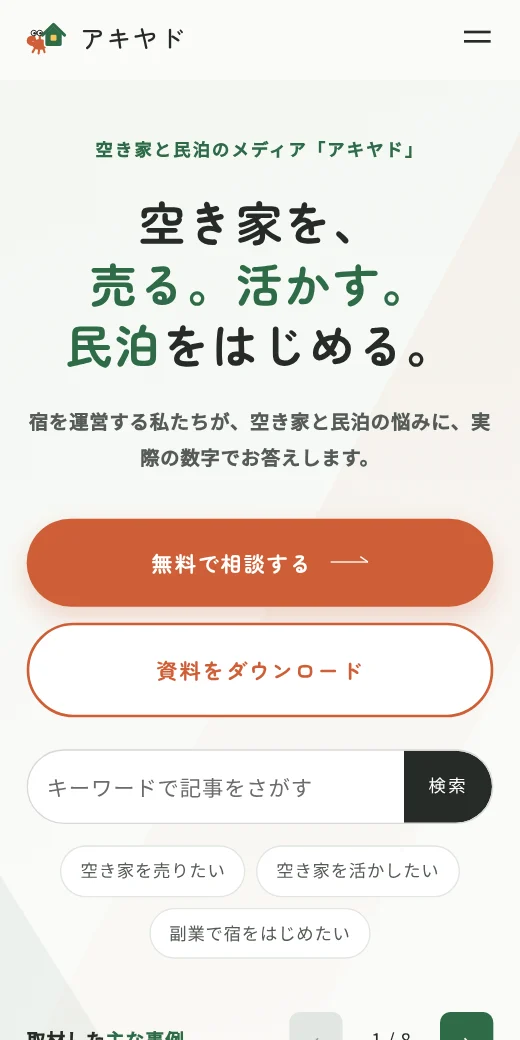
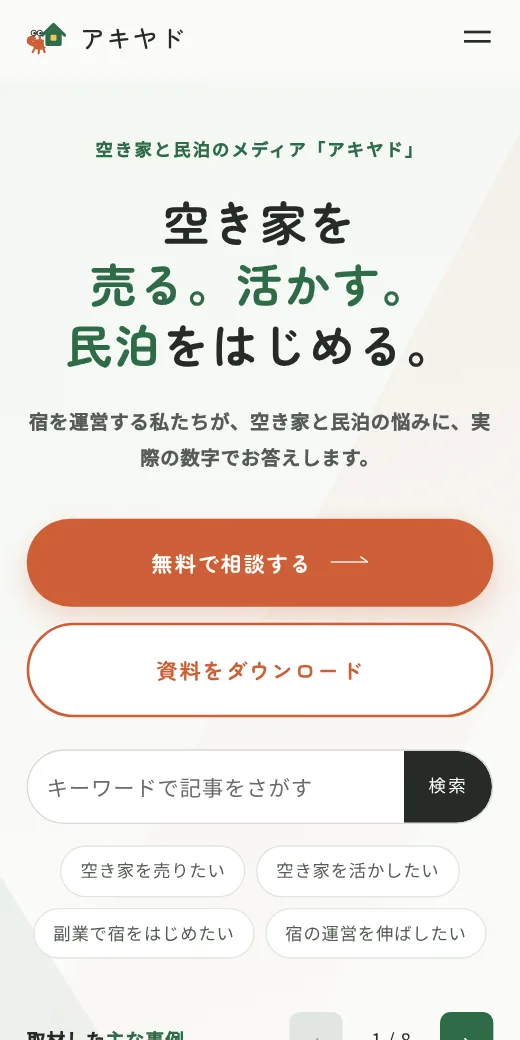
メディアトップの大見出しの読点を削除し、紹介画像を撮り直す
- media.html の大見出し「空き家を、」の「、」を消した（前回の修正で漏れていた）
- 会社トップのメディア紹介の見本画像（PC・スマホ）を、今の見た目（読点なし・新しいナビ）で撮り直した
- 見本画像は30日キャッシュされるため、URL に版番号（?v=）を付け、差し替えがすぐ反映されるようにした

Claude-Session: https://claude.ai/code/session_01GUoo6F3p45XxKZwNuvxHzQ

Changed region(s): [[0.2769, 0.1846, 0.6769, 0.2462], [0.0923, 0.8923, 0.8, 0.9231], [0.8308, 0.8923, 0.8923, 0.9231]]

diff --git a/pages/index.html b/pages/index.html
@@ -293,8 +293,8 @@
             </div>
           </div>
           <a href="media.html" class="mintro__shots reveal" data-delay="1" aria-label="アキヤドを見る">
-            <span class="mintro__pc"><span class="mintro__bar" aria-hidden="true"><i></i><i></i><i></i></span><img src="../images/media-preview-pc.webp" alt="アキヤドのトップページ（パソコン表示）" width="1440" height="900" loading="lazy" decoding="async"></span>
-            <span class="mintro__sp"><img src="../images/media-preview-sp.webp" alt="アキヤドのトップページ（スマホ表示）" width="520" height="1040" loading="lazy" decoding="async"></span>
+            <span class="mintro__pc"><span class="mintro__bar" aria-hidden="true"><i></i><i></i><i></i></span><img src="../images/media-preview-pc.webp?v=957b6503" alt="アキヤドのトップページ（パソコン表示）" width="1440" height="900" loading="lazy" decoding="async"></span>
+            <span class="mintro__sp"><img src="../images/media-preview-sp.webp?v=3345d77d" alt="アキヤドのトップページ（スマホ表示）" width="520" height="1040" loading="lazy" decoding="async"></span>
           </a>
         </div>
         <ul class="mintro__entries reveal"><li><a href="media/guide-sell.html" class="mintro__entry"><span class="mintro__who"><n-w>空き家を売りたい方へ</n-w></span><span class="mintro__desc"><n-w>相続した家を手放すときの流れ、税金の特例、放置したときのリスク</n-w></span><span class="mintro__arrow"><span class="arrow" aria-hidden="true"></span></span></a></li><li><a href="media/guide-use.html" class="mintro__entry"><span class="mintro__who"><n-w>空き家を活かしたい方へ</n-w></span><span class="mintro__desc"><n-w>家を残したまま宿として活かす方法、貸す契約、改修の考え方</n-w></span><span class="mintro__arrow"><span class="arrow" aria-hidden="true"></span></span></a></li><li><a href="media/guide-side.html" class="mintro__entry"><span class="mintro__who"><n-w>副業で宿をはじめたい方へ</n-w></span><span class="mintro__desc"><n-w>民泊の始め方、制度と届出、開業資金、集客と運営</n-w></span><span class="mintro__arrow"><span class="arrow" aria-hidden="true"></span></span></a></li><li><a href="media/guide-run.html" class="mintro__entry"><span class="mintro__who"><n-w>宿の運営を伸ばしたい方へ</n-w></span><span class="mintro__desc"><n-w>運営中の宿の数字の見方、予約の増やし方、人手と運営の整え方</n-w></span><span class="mintro__arrow"><span class="arrow" aria-hidden="true"></span></span></a></li></ul>

diff --git a/pages/media.html b/pages/media.html
@@ -84,7 +84,7 @@
       <div class="container mtop__inner">
         <div class="mtop__text">
           <p class="mtop__eyebrow reveal">空き家と<wbr>民泊の<wbr>メディア<wbr>「アキヤド」</p>
-          <h1 class="mtop__title reveal" data-delay="1"><span class="mtop__line">空き家を、</span><span class="mtop__line"><em>売る。<wbr>活かす。</em></span><span class="mtop__line"><em>民泊</em>をはじめる。</span></h1>
+          <h1 class="mtop__title reveal" data-delay="1"><span class="mtop__line">空き家を</span><span class="mtop__line"><em>売る。<wbr>活かす。</em></span><span class="mtop__line"><em>民泊</em>をはじめる。</span></h1>
           <p class="mtop__lead reveal" data-delay="1"><n-w>宿を運営する私たちが、空き家と民泊の悩みに、実際の数字で<n-b>お答えします。</n-b></n-w></p>
           <div class="mtop__btns reveal" data-delay="2">
             <a href="media/contact.html?category=operation&amp;from=akiyado-fv" class="mbtn mtop__btn" data-cta="media-fv">無料で<wbr>相談する <span class="arrow" aria-hidden="true"></span></a>

diff --git a/tools/build.py b/tools/build.py
@@ -4465,8 +4465,8 @@ def media_intro():
             </div>
           </div>
           <a href="media.html" class="mintro__shots reveal" data-delay="1" aria-label="アキヤドを見る">
-            <span class="mintro__pc"><span class="mintro__bar" aria-hidden="true"><i></i><i></i><i></i></span><img src="images/media-preview-pc.webp" alt="アキヤドのトップページ（パソコン表示）" width="1440" height="900" loading="lazy" decoding="async"></span>
-            <span class="mintro__sp"><img src="images/media-preview-sp.webp" alt="アキヤドのトップページ（スマホ表示）" width="520" height="1040" loading="lazy" decoding="async"></span>
+            <span class="mintro__pc"><span class="mintro__bar" aria-hidden="true"><i></i><i></i><i></i></span><img src="images/media-preview-pc.webp?v={asset_version("images/media-preview-pc.webp")}" alt="アキヤドのトップページ（パソコン表示）" width="1440" height="900" loading="lazy" decoding="async"></span>
+            <span class="mintro__sp"><img src="images/media-preview-sp.webp?v={asset_version("images/media-preview-sp.webp")}" alt="アキヤドのトップページ（スマホ表示）" width="520" height="1040" loading="lazy" decoding="async"></span>
           </a>
         </div>
         <ul class="mintro__entries reveal">{entries}</ul>
@@ -4831,7 +4831,7 @@ def media_index_page():
       <div class="container mtop__inner">
         <div class="mtop__text">
           <p class="mtop__eyebrow reveal">空き家と民泊のメディア「アキヤド」</p>
-          <h1 class="mtop__title reveal" data-delay="1"><span class="mtop__line">空き家を、</span><span class="mtop__line"><em>売る。活かす。</em></span><span class="mtop__line"><em>民泊</em>をはじめる。</span></h1>
+          <h1 class="mtop__title reveal" data-delay="1"><span class="mtop__line">空き家を</span><span class="mtop__line"><em>売る。活かす。</em></span><span class="mtop__line"><em>民泊</em>をはじめる。</span></h1>
           <p class="mtop__lead reveal" data-delay="1">宿を運営する私たちが、空き家と民泊の悩みに、実際の数字でお答えします。</p>
           <div class="mtop__btns reveal" data-delay="2">
             <a href="contact.html?category=operation&amp;from=akiyado-fv" class="mbtn mtop__btn" data-cta="media-fv">無料で相談する {ARROW}</a>
